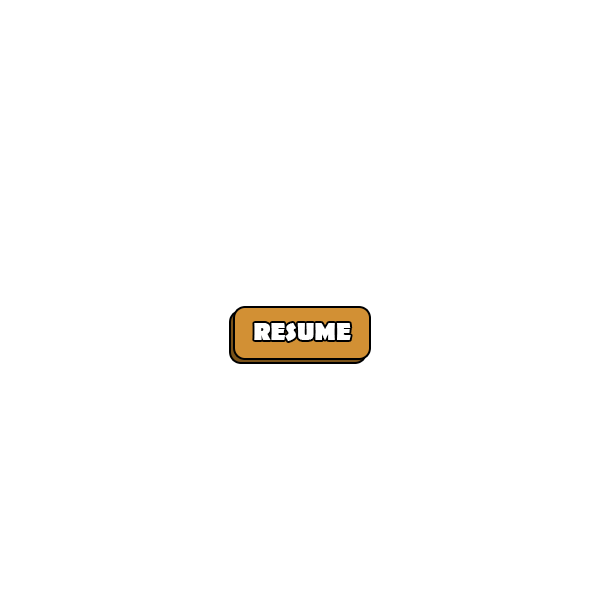
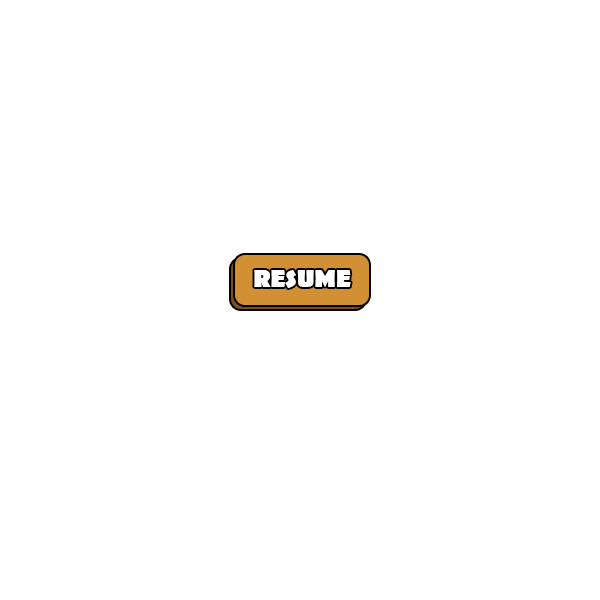
Added new buttons (not functional)

Changed region(s): [[0.36, 0.42, 0.63, 0.63]]

diff --git a/main.py b/main.py
@@ -139,6 +139,14 @@ if collapse:
     pause = False
     resumeButtonHover = False
     resumeButtonClicked = False
+    settingsButtonHover = False
+    settingsButtonClicked = False
+    mainMenu2ButtonHover = False
+    mainMenu2ButtonClicked = False
+    confirmYesButtonHover = False
+    confirmYesButtonClicked = False
+    confirmNoButtonHover = False
+    confirmNoButtonClicked = False
     # MAKE SURE TO ALSO CHANGE VALUES IN RESETVALUES METHOD -------------------------------------------------------
 
 # audio
@@ -290,6 +298,18 @@ if collapse:
     asset_resume_button_normal = pygame.image.load("assets/UI/resume_button_normal.png")
     asset_resume_button_hover = pygame.image.load("assets/UI/resume_button_hover.png")
     asset_resume_button_clicked = pygame.image.load("assets/UI/resume_button_clicked.png")
+    asset_settings_button_normal = pygame.image.load("assets/UI/settings_button_normal.png")
+    asset_settings_button_hover = pygame.image.load("assets/UI/settings_button_hover.png")
+    asset_settings_button_clicked = pygame.image.load("assets/UI/settings_button_clicked.png")
+    asset_main_menu2_button_normal = pygame.image.load("assets/UI/main_menu2_button_normal.png")
+    asset_main_menu2_button_hover = pygame.image.load("assets/UI/main_menu2_button_hover.png")
+    asset_main_menu2_button_clicked = pygame.image.load("assets/UI/main_menu2_button_clicked.png")
+    asset_confirm_yes_button_normal = pygame.image.load("assets/UI/confirm_yes_button_normal.png")
+    asset_confirm_yes_button_hover = pygame.image.load("assets/UI/confirm_yes_button_hover.png")
+    asset_confirm_yes_button_clicked = pygame.image.load("assets/UI/confirm_yes_button_clicked.png")
+    asset_confirm_no_button_normal = pygame.image.load("assets/UI/confirm_no_button_normal.png")
+    asset_confirm_no_button_hover = pygame.image.load("assets/UI/confirm_no_button_hover.png")
+    asset_confirm_no_button_clicked = pygame.image.load("assets/UI/confirm_no_button_clicked.png")
 
 # text
 if collapse:
@@ -645,11 +665,11 @@ def pauseGame():
     screen.blit(asset_paused_overlay, (0, 0))
     # Resume Button
     # Hover Button
-    if (239 <= mouse_posx <= 365) and (312 <= mouse_posy <= 353) and resumeButtonClicked == False:
+    if (235 <= mouse_posx <= 367) and (257 <= mouse_posy <= 302) and resumeButtonClicked == False:
         screen.blit(asset_resume_button_hover, (0, 0))
         resumeButtonHover = True
     # Click Button
-    elif (239 <= mouse_posx <= 365) and (312 <= mouse_posy <= 353) and resumeButtonClicked == True:
+    elif (235 <= mouse_posx <= 367) and (257 <= mouse_posy <= 302) and resumeButtonClicked == True:
         screen.blit(asset_resume_button_clicked, (0, 0))
         resumeButtonHover = False
     # Normal Button
@@ -657,14 +677,41 @@ def pauseGame():
         screen.blit(asset_resume_button_normal, (0, 0))
         resumeButtonHover = False
 
+    # Settings
+    # Hover Button
+    if (235 <= mouse_posx <= 367) and (324 <= mouse_posy <= 370) and settingsButtonClicked == False:
+        screen.blit(asset_settings_button_hover, (0, 0))
+        settingsButtonHover = True
+    # Click Button
+    elif (235 <= mouse_posx <= 367) and (324 <= mouse_posy <= 370) and settingsButtonClicked == True:
+        screen.blit(asset_settings_button_clicked, (0, 0))
+        settingsButtonHover = False
+    # Normal Button
+    else:
+        screen.blit(asset_settings_button_normal, (0, 0))
+        settingsButtonHover = False
+
+    # Main Menu
+    # Hover Button
+    if (235 <= mouse_posx <= 367) and (393 <= mouse_posy <= 438) and mainMenu2ButtonClicked == False:
+        screen.blit(asset_main_menu2_button_hover, (0, 0))
+        mainMenu2ButtonHover = True
+    # Click Button
+    elif (235 <= mouse_posx <= 367) and (393 <= mouse_posy <= 438) and mainMenu2ButtonClicked == True:
+        screen.blit(asset_main_menu2_button_clicked, (0, 0))
+        mainMenu2ButtonHover = False
+    # Normal Button
+    else:
+        screen.blit(asset_main_menu2_button_normal, (0, 0))
+        mainMenu2ButtonHover = False
+
 
 def playerHit(damage):
     global playerHP
 
     if playerHP > 0:
         playerHP -= damage
-        playerhit.stop()
-        playerhit.play()
+        playerHitSound_timer.start()
 
 
 def playerDead():
@@ -692,7 +739,9 @@ def resetValues():
         ownSniperRifle, catalog, catalogPage1, catalogPage2, catalogPage3, playerIdle, playerWalk, playerHolster, \
         playerLegsIdle, playerShoot, playerDrink, playerSniper, playerGrab, playButtonHover, playButtonClicked, \
         readyToFireRevolver, restartButtonHover, restartButtonClicked, mainMenuButtonHover, mainMenuButtonClicked, \
-        resumeButtonHover, resumeButtonClicked
+        resumeButtonHover, resumeButtonClicked, settingsButtonHover, settingsButtonClicked, mainMenu2ButtonHover, \
+        mainMenu2ButtonClicked, confirmYesButtonHover, confirmYesButtonClicked, confirmNoButtonHover, \
+        confirmNoButtonClicked
 
     # player vals
     playerHP = 100
@@ -777,6 +826,14 @@ def resetValues():
     pause = False
     resumeButtonHover = False
     resumeButtonClicked = False
+    settingsButtonHover = False
+    settingsButtonClicked = False
+    mainMenu2ButtonHover = False
+    mainMenu2ButtonClicked = False
+    confirmYesButtonHover = False
+    confirmYesButtonClicked = False
+    confirmNoButtonHover = False
+    confirmNoButtonClicked = False
 
 
 def stopAllTimers(tup):
@@ -839,7 +896,6 @@ def resumeGame_timer_handler():
     resumeGame_timer.stop()
 
 
-
 def revolverFireDelay_timer_handler():
     global readyToFireRevolver
     readyToFireRevolver = True
@@ -852,6 +908,15 @@ def drinkResetDelay_timer_handler():
     drinkResetDelay_timer.stop()
 
 
+def playerHitSound_timer_handler():
+    global playerHP
+    if playerHP > 0:
+        playerhit.play()
+        playerHitSound_timer.stop()
+    else:
+        playerHitSound_timer.stop()
+
+
 # timers
 revolver_reload_timer = simplegui.create_timer(revolverReloadSpeed, revolver_reload_timer_handler)
 sniper_reload_timer = simplegui.create_timer(1000, sniper_reload_timer_handler)
@@ -861,6 +926,7 @@ mainMenu_timer = simplegui.create_timer(50, mainMenu_timer_handler)
 resumeGame_timer = simplegui.create_timer(50, resumeGame_timer_handler)
 revolverFireDelay_timer = simplegui.create_timer(revolverFireRate, revolverFireDelay_timer_handler)
 drinkResetDelay_timer = simplegui.create_timer(drinkTime, drinkResetDelay_timer_handler)
+playerHitSound_timer = simplegui.create_timer(100, playerHitSound_timer_handler)
 
 # timers tuple
 timerTuple = (revolver_reload_timer, sniper_reload_timer, music_timer, startGame_timer, revolverFireDelay_timer,
@@ -1219,11 +1285,11 @@ while True:
                 # Main Menu Button
                 if startGame == False and dead == True and mainMenuButtonHover == True:
                     button.play()
+                    intromusic.play(-1)
                     mainMenu_timer.start()
                     mainMenuButtonHover = False
                     mainMenuButtonClicked = True
                     stopSounds()
-                    intromusic.play(-1)
                 # Resume Button
                 if pause == True and resumeButtonHover == True:
                     button.play()
@@ -1399,7 +1465,6 @@ while True:
                             screen.blit(asset_revolver_vert_right, (246 - 9.5, 364 - 19.5))
                         screen.blit(asset_holster_right, (250 - 32.5, 335 - 75.5))
                         screen.blit(asset_player_holsterwalk_right, (250-32.5, 329-76))
-
 
                     else:
                         # hp beer in hand right
@@ -1675,7 +1740,6 @@ while True:
             banMove = 8
         elif banMoveAbility == False:
             banMove = 0
-
 
 
 
